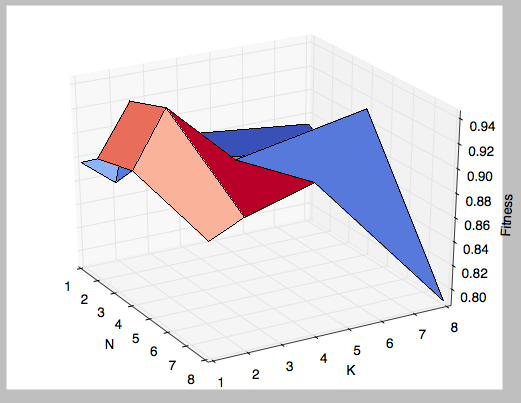
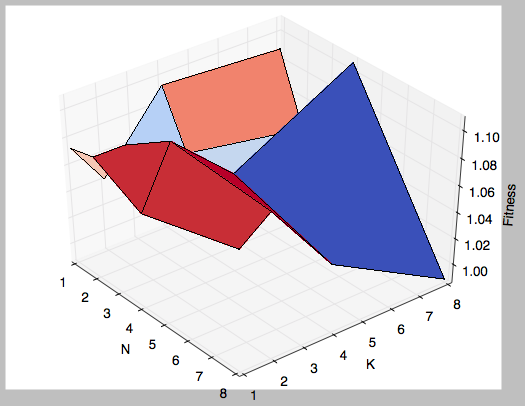
Upload turing tuning plots

diff --git a/report.html b/report.html
@@ -61,13 +61,13 @@ The 3D graphs depict how the fitness after 25000 generations varies with N and K
 <td>96&times;128 pixels<br><img src="mjchao.jpg"></td>
 <td>P=100, N=1, K=1<br><img src="mjchao/mjchao_anim.png"></td>
 <td><img src="mjchao_fitness.png"></td>
-<td><img width=400 height=400 src="turing_tuning.png"><br>N=4, K=2 gave the best result</td>
+<td><img width=400 height=400 src="mjchao_tuning.png"><br>N=1, K=2 gave the best result</td>
 </tr>
 
 <tr>
 <td>128&times;128 pixels<br><img src="turing.jpg"></td>
 <td>P=100, N=1, K=1<br><img src="turing/turing_anim.png"></td>
-<td><img src="turing_fitness.png"></td>
+<td><img src="turing_fitness.png">(Note: The process exceeded 6 hours on CAEN and was killed before 500000 generations)</td>
 <td><img width=400 height=400 src="turing_tuning.png"><br>N=4, K=2 gave the best result</td>
 </tr>
 
@@ -115,13 +115,13 @@ At office hours, I was advised to use the same mutations as the sample because m
 However, this did not solve the problem. It turned out I hadn't been using the pygame draw functionality correctly. Unfortunately, it would take several days to regenerate all the animations, so I stuck with these mutations.
 </p>
 
-Coordinates of vertices were moved using a Gaussian distribution of mean 0 and standard deviation IMG_SIZE/5 pixels.
+Coordinates of vertices were moved in the x, y directions using a Gaussian distribution of mean 0 and standard deviation IMG_WIDTH/5 and IMG_HEIGHT/5 pixels, respectively.
 Components of colors (0-255 scale) were altered using a Gaussian distribution of mean 0 and standard deviation 25.
 </p>
 <p>
 Random triangles were created by picking a point on the image with uniform distribution,
 then adding a Gaussian distribution of mean 0 and
-standard deviation IMG_SIZE/10 to obtain the vertices.
+standard deviation IMG_WIDTH/10 and IMG_HEIGHT/10 to obtain the (x, y) coordinates of vertices.
 Random colors were picked using uniform distribution over the RGB color space.
 </p>
 <p>

diff --git a/Plot.py b/Plot.py
@@ -119,7 +119,7 @@ class Plot( object ):
          
     
 #Plot.plot_data( "mjchao.out" )
-Plot.plot_tuning( "haystack_tuning.out" )
+Plot.plot_tuning( "turing_tuning.out" )
 #Plot.plot_tuning_average([ "darwin_tuning.out" , "haystack_tuning.out" , "michigan_tuning.out" , "mona_lisa_tuning.out" , "turing_tuning.out"] )
     
         
